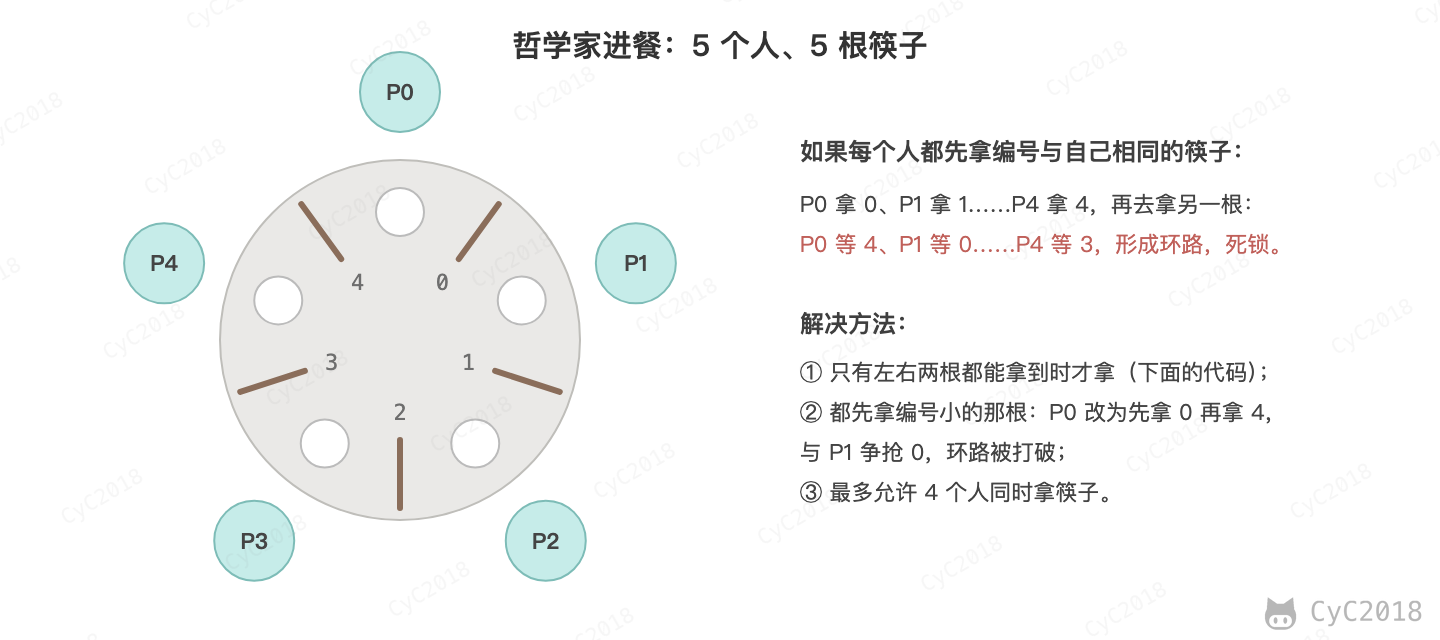
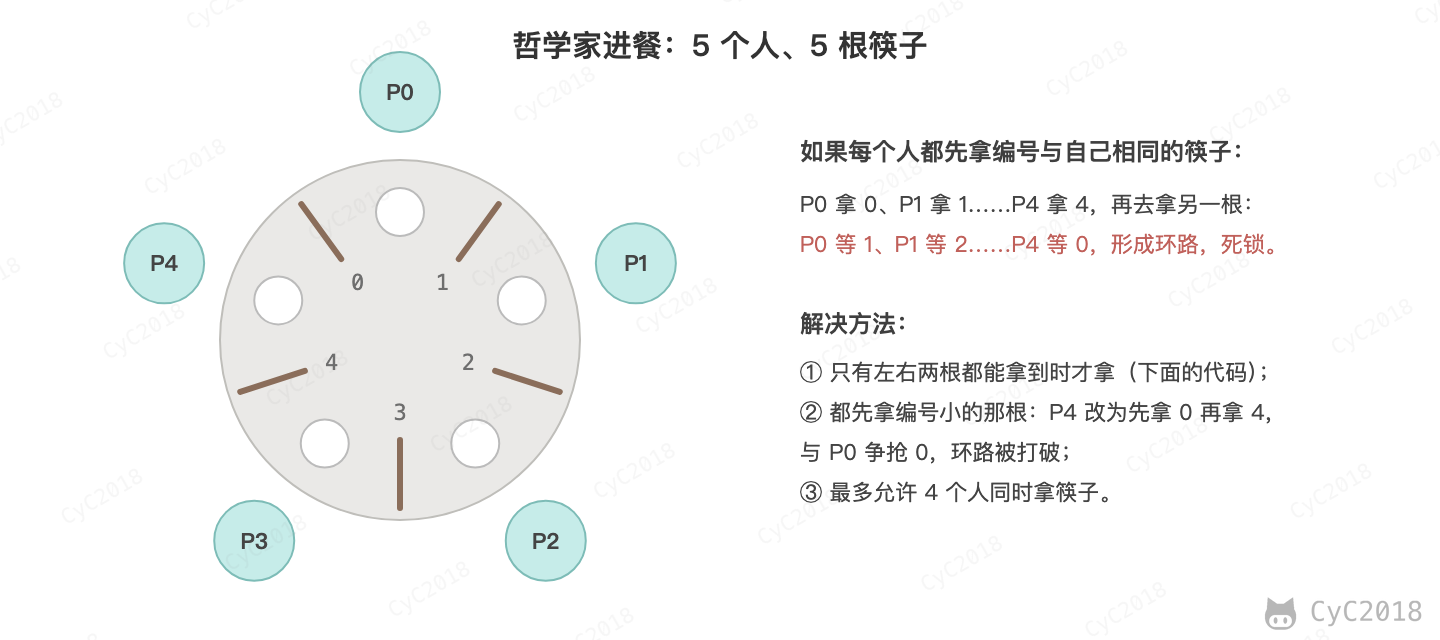
Update 计算机操作系统 - 进程管理.md
重新绘制哲学家就餐问题的配图，调整调度算法的标题层级，更新 CFS 和 EEVDF 的描述，增加上下文切换的实测附录。

Changed region(s): [[0.5938, 0.3438, 0.9062, 0.4062], [0.5625, 0.6875, 0.75, 0.7188], [0.7188, 0.625, 0.75, 0.6562]]

diff --git a/notes/计算机操作系统 - 进程管理.md b/notes/计算机操作系统 - 进程管理.md
@@ -27,6 +27,7 @@
         * [4. 信号量](#4-信号量)
         * [5. 共享存储](#5-共享存储)
         * [6. 套接字](#6-套接字)
+    * [附录：实测](#附录实测)
     * [参考资料](#参考资料)
 <!-- GFM-TOC -->
 
@@ -37,7 +38,7 @@
 
 进程是资源分配的基本单位。
 
-进程控制块 (Process Control Block, PCB) 描述进程的基本信息和运行状态，所谓的创建进程和撤销进程，都是指对 PCB 的操作。
+进程控制块（Process Control Block, PCB）描述进程的基本信息和运行状态，所谓的创建进程和撤销进程，都是指对 PCB 的操作。
 
 下图显示了 4 个进程在一个 CPU 上并发地执行。
 
@@ -55,21 +56,10 @@ QQ 和浏览器是两个进程，浏览器进程里面有很多线程，例如 H
 
 ### 3. 区别
 
-Ⅰ 拥有资源
-
-进程是资源分配的基本单位，但是线程不拥有资源，线程可以访问隶属进程的资源。
-
-Ⅱ 调度
-
-线程是独立调度的基本单位，在同一进程中，线程的切换不会引起进程切换，从一个进程中的线程切换到另一个进程中的线程时，会引起进程切换。
-
-Ⅲ 系统开销
-
-由于创建或撤销进程时，系统都要为之分配或回收资源，如内存空间、I/O 设备等，所付出的开销远大于创建或撤销线程时的开销。类似地，在进行进程切换时，涉及当前执行进程 CPU 环境的保存及新调度进程 CPU 环境的设置，而线程切换时只需保存和设置少量寄存器内容，开销很小。
-
-Ⅳ 通信方面
-
-线程间可以通过直接读写同一进程中的数据进行通信，但是进程通信需要借助 IPC。
+- 拥有资源：进程是资源分配的基本单位，但是线程不拥有资源，线程可以访问隶属进程的资源；
+- 调度：线程是独立调度的基本单位，在同一进程中，线程的切换不会引起进程切换，从一个进程中的线程切换到另一个进程中的线程时，会引起进程切换；
+- 系统开销：由于创建或撤销进程时，系统都要为之分配或回收资源，如内存空间、I/O 设备等，所付出的开销远大于创建或撤销线程时的开销。类似地，在进行进程切换时，涉及当前执行进程 CPU 环境的保存及新调度进程 CPU 环境的设置，而线程切换时只需保存和设置少量寄存器内容，开销很小；
+- 通信方面：线程间可以通过直接读写同一进程中的数据进行通信，但是进程通信需要借助 IPC。
 
 ### 4. 协程
 
@@ -78,7 +68,7 @@ QQ 和浏览器是两个进程，浏览器进程里面有很多线程，例如 H
 与线程相比：
 
 - 切换在用户态完成，只需要保存少量寄存器，不需要陷入内核，开销小；
-- 占用的内存少，可以同时存在大量协程，而每个线程都要预留独立的栈，例如 64 位 Linux 上 Java 线程的栈默认为 1 MB，线程数量有限；
+- 占用的内存少，可以同时存在大量协程，而每个线程都要预留独立的栈，例如 Linux x64 上 Java 线程的栈默认为 1 MB（ARM64 的 Linux 和 macOS 上为 2 MB），线程数量有限；
 - 同一个线程上的协程不能并行执行，要利用多核仍然需要多个线程；协程中如果执行了阻塞的系统调用，所在的线程会被阻塞，所以协程的运行时通常把 I/O 改为非阻塞的方式。
 
 Java 21 正式引入的虚拟线程（[JEP 444](https://openjdk.org/jeps/444)）就是 JVM 实现的协程：虚拟线程由 JVM 调度到少量的平台线程上运行，执行阻塞 I/O 时从平台线程上卸载，让平台线程去执行其它虚拟线程。虚拟线程的创建成本很低，不需要用线程池复用，需要限制并发数时使用信号量。在 JDK 21 中，虚拟线程在 synchronized 块内阻塞时无法卸载，JDK 24 起（[JEP 491](https://openjdk.org/jeps/491)）基本消除了这个限制。
@@ -95,19 +85,19 @@ Java 21 正式引入的虚拟线程（[JEP 444](https://openjdk.org/jeps/444)）
 
 同一进程中的线程切换不需要换地址空间；切换到另一个进程时还要切换页表，TLB 和 CPU 缓存中原来的地址映射和数据对新进程没有用，要重新加载，这部分间接开销通常比保存寄存器更大。
 
-在 Linux 容器中用 taskset 把两个执行流固定在同一个 CPU 上，通过两根管道来回传 1 个字节，让它们交替运行：两个线程之间、两个进程之间每次切换都约 1.1 微秒（包含一次 read 或 write 系统调用）。数据量很小时两者几乎没有差别，进程切换的额外开销主要在工作集较大时体现出来。线程过多、频繁阻塞时，CPU 会把相当一部分时间花在切换上，可以用 vmstat 的 cs 列或 pidstat -w 观察每秒的切换次数。
+例如把两个执行流固定在同一个 CPU 上，通过两根管道来回传 1 个字节，让它们交替运行，两个线程之间、两个进程之间每次切换都约 1.1 微秒，包含一次 read 或 write 系统调用（Linux 实测，见[附录：实测](#附录实测)）。数据量很小时两者几乎没有差别，进程切换的额外开销主要在工作集较大时体现出来。线程过多、频繁阻塞时，CPU 会把相当一部分时间花在切换上，可以用 vmstat 的 cs 列或 pidstat -w 观察每秒的切换次数。
 
 ## 进程状态的切换
 
 <div align="center"> <img src="pics/process-states.png" width="720px"/> </div><br>
 
-- 就绪状态（ready）：等待被调度
-- 运行状态（running）
-- 阻塞状态（waiting）：等待资源
+- 就绪状态（ready）：等待被调度；
+- 运行状态（running）：正在 CPU 上执行；
+- 阻塞状态（waiting）：等待资源。
 
 应该注意以下内容：
 
-- 只有就绪态和运行态可以相互转换，其它的都是单向转换。就绪状态的进程通过调度算法从而获得 CPU 时间，转为运行状态；而运行状态的进程，在分配给它的 CPU 时间片用完之后就会转为就绪状态，等待下一次调度。
+- 只有就绪态和运行态可以相互转换，其它的都是单向转换。就绪状态的进程通过调度算法从而获得 CPU 时间，转为运行状态；而运行状态的进程，在分配给它的 CPU 时间片用完之后就会转为就绪状态，等待下一次调度；
 - 阻塞状态是缺少需要的资源从而由运行状态转换而来，但是该资源不包括 CPU 时间，缺少 CPU 时间会从运行态转换为就绪态。
 
 ## 进程调度算法
@@ -118,48 +108,48 @@ Java 21 正式引入的虚拟线程（[JEP 444](https://openjdk.org/jeps/444)）
 
 批处理系统没有太多的用户操作，在该系统中，调度算法目标是保证吞吐量和周转时间（从提交到终止的时间）。
 
-**1.1 先来先服务 first-come first-served（FCFS）**  
+##### 1.1 先来先服务（First-Come First-Served, FCFS）
 
 非抢占式的调度算法，按照请求的顺序进行调度。
 
 有利于长作业，但不利于短作业，因为短作业必须一直等待前面的长作业执行完毕才能执行，而长作业又需要执行很长时间，造成了短作业等待时间过长。
 
-**1.2 短作业优先 shortest job first（SJF）**  
+##### 1.2 短作业优先（Shortest Job First, SJF）
 
 非抢占式的调度算法，按估计运行时间最短的顺序进行调度。
 
 长作业有可能会饿死，处于一直等待短作业执行完毕的状态。因为如果一直有短作业到来，那么长作业永远得不到调度。
 
-**1.3 最短剩余时间优先 shortest remaining time next（SRTN）**  
+##### 1.3 最短剩余时间优先（Shortest Remaining Time Next, SRTN）
 
-最短作业优先的抢占式版本，按剩余运行时间的顺序进行调度。 当一个新的作业到达时，其整个运行时间与当前进程的剩余时间作比较。如果新的进程需要的时间更少，则挂起当前进程，运行新的进程。否则新的进程等待。
+最短作业优先的抢占式版本，按剩余运行时间的顺序进行调度。当一个新的作业到达时，其整个运行时间与当前进程的剩余时间作比较。如果新的进程需要的时间更少，则挂起当前进程，运行新的进程。否则新的进程等待。
 
 ### 2. 交互式系统
 
 交互式系统有大量的用户交互操作，在该系统中调度算法的目标是快速地进行响应。
 
-**2.1 时间片轮转**  
+##### 2.1 时间片轮转
 
 将所有就绪进程按 FCFS 的原则排成一个队列，每次调度时，把 CPU 时间分配给队首进程，该进程可以执行一个时间片。当时间片用完时，由计时器发出时钟中断，调度程序便停止该进程的执行，并将它送往就绪队列的末尾，同时继续把 CPU 时间分配给队首的进程。
 
 时间片轮转算法的效率和时间片的大小有很大关系：
 
-- 因为进程切换都要保存进程的信息并且载入新进程的信息，如果时间片太小，会导致进程切换得太频繁，在进程切换上就会花过多时间。
+- 因为进程切换都要保存进程的信息并且载入新进程的信息，如果时间片太小，会导致进程切换得太频繁，在进程切换上就会花过多时间；
 - 而如果时间片过长，那么实时性就不能得到保证。
 
 <div align="center"> <img src="pics/process-rr.png" width="740px"/> </div><br>
 
-**2.2 优先级调度**  
+##### 2.2 优先级调度
 
 为每个进程分配一个优先级，按优先级进行调度。
 
 为了防止低优先级的进程永远等不到调度，可以随着时间的推移增加等待进程的优先级。
 
-**2.3 多级反馈队列**  
+##### 2.3 多级反馈队列
 
 一个进程需要执行 100 个时间片，如果采用时间片轮转调度算法，那么需要交换 100 次。
 
-多级队列是为这种需要连续执行多个时间片的进程考虑，它设置了多个队列，每个队列时间片大小都不同，例如 1,2,4,8,..。进程在第一个队列没执行完，就会被移到下一个队列。这种方式下，之前的进程只需要交换 7 次。
+多级队列是为这种需要连续执行多个时间片的进程考虑，它设置了多个队列，每个队列时间片大小都不同，例如 1、2、4、8……进程在第一个队列没执行完，就会被移到下一个队列。这种方式下，之前的进程只需要交换 7 次（1 + 2 + … + 64 = 127 ≥ 100）。
 
 每个队列优先权也不同，最上面的优先权最高。因此只有上一个队列没有进程在排队，才能调度当前队列上的进程。
 
@@ -173,6 +163,8 @@ Java 21 正式引入的虚拟线程（[JEP 444](https://openjdk.org/jeps/444)）
 
 分为硬实时和软实时，前者必须满足绝对的截止时间，后者可以容忍一定的超时。
 
+实际的操作系统会组合使用这些思想。例如 Linux 2.6.23 起的完全公平调度器（CFS）给每个进程记录按优先级加权后的虚拟运行时间，总是选择虚拟运行时间最小的进程运行，让各进程按权重分享 CPU；Linux 6.6 起开始改用 EEVDF 调度器，在公平分享的基础上考虑每个进程的截止时间，让对延迟敏感的进程更快得到运行。实时进程使用单独的 SCHED_FIFO、SCHED_RR 策略，优先于普通进程。
+
 ## 进程同步
 
 ### 1. 临界区
@@ -181,7 +173,7 @@ Java 21 正式引入的虚拟线程（[JEP 444](https://openjdk.org/jeps/444)）
 
 为了互斥访问临界资源，每个进程在进入临界区之前，需要先进行检查。
 
-```html
+```c
 // entry section
 // critical section;
 // exit section
@@ -189,19 +181,19 @@ Java 21 正式引入的虚拟线程（[JEP 444](https://openjdk.org/jeps/444)）
 
 ### 2. 同步与互斥
 
-- 同步：多个进程因为合作产生的直接制约关系，使得进程有一定的先后执行关系。
+- 同步：多个进程因为合作产生的直接制约关系，使得进程有一定的先后执行关系；
 - 互斥：多个进程在同一时刻只有一个进程能进入临界区。
 
 ### 3. 信号量
 
 信号量（Semaphore）是一个整型变量，可以对其执行 down 和 up 操作，也就是常见的 P 和 V 操作。
 
--   **down**   : 如果信号量大于 0 ，执行 -1 操作；如果信号量等于 0，进程睡眠，等待信号量大于 0；
--   **up**  ：对信号量执行 +1 操作，唤醒睡眠的进程让其完成 down 操作。
+- down：如果信号量大于 0，执行 -1 操作；如果信号量等于 0，进程睡眠，等待信号量大于 0；
+- up：对信号量执行 +1 操作，唤醒睡眠的进程让其完成 down 操作。
 
 down 和 up 操作需要被设计成原语，不可分割，通常的做法是在执行这些操作的时候屏蔽中断。
 
-如果信号量的取值只能为 0 或者 1，那么就成为了   **互斥量（Mutex）**  ，0 表示临界区已经加锁，1 表示临界区解锁。
+如果信号量的取值只能为 0 或者 1，那么就成为了互斥量（Mutex），0 表示临界区已经加锁，1 表示临界区解锁。
 
 ```c
 typedef int semaphore;
@@ -219,7 +211,7 @@ void P2() {
 }
 ```
 
-\<font size=3\>   **使用信号量实现生产者-消费者问题**   \</font\> \</br\>
+使用信号量实现生产者-消费者问题：
 
 问题描述：使用一个缓冲区来保存物品，只有缓冲区没有满，生产者才可以放入物品；只有缓冲区不为空，消费者才可以拿走物品。
 
@@ -263,7 +255,7 @@ void consumer() {
 
 使用信号量机制实现的生产者消费者问题需要客户端代码做很多控制，而管程把控制的代码独立出来，不仅不容易出错，也使得客户端代码调用更容易。
 
-c 语言不支持管程，下面的示例代码使用了类 Pascal 语言来描述管程。示例代码的管程提供了 insert() 和 remove() 方法，客户端代码通过调用这两个方法来解决生产者-消费者问题。
+C 语言不支持管程，下面的示例代码使用了类 Pascal 语言来描述管程。示例代码的管程提供了 insert() 和 remove() 方法，客户端代码通过调用这两个方法来解决生产者-消费者问题。
 
 ```pascal
 monitor ProducerConsumer
@@ -284,9 +276,9 @@ end monitor;
 
 管程有一个重要特性：在一个时刻只能有一个进程使用管程。进程在无法继续执行的时候不能一直占用管程，否则其它进程永远不能使用管程。
 
-管程引入了   **条件变量**   以及相关的操作：**wait()** 和 **signal()** 来实现同步操作。对条件变量执行 wait() 操作会导致调用进程阻塞，把管程让出来给另一个进程持有。signal() 操作用于唤醒被阻塞的进程。
+管程引入了条件变量以及相关的操作 wait() 和 signal() 来实现同步操作。对条件变量执行 wait() 操作会导致调用进程阻塞，把管程让出来给另一个进程持有。signal() 操作用于唤醒被阻塞的进程。
 
-<font size=3>  **使用管程实现生产者-消费者问题**  </font><br>
+使用管程实现生产者-消费者问题：
 
 ```pascal
 // 管程
@@ -519,7 +511,7 @@ Semaphore serviceQueue;         // FAIRNESS: preserves ordering of requests (sig
 
 void writer()
 { 
-    down(&serviceQueue);           // wait in line to be servicexs
+    down(&serviceQueue);           // wait in line to be serviced
     // <ENTER>
     down(&resourceAccess);         // request exclusive access to resource
     // </ENTER>
@@ -624,7 +616,37 @@ FIFO 常用于客户-服务器应用程序中，FIFO 用作汇聚点，在客户
 
 与其它通信机制不同的是，它可用于不同机器间的进程通信。
 
+## 附录：实测
+
+上下文切换：Docker Desktop 中的 Linux 容器（Apple M1 Pro），gcc -O2 编译。两个执行流通过两根管道互相传 1 个字节，每个来回包含 2 次切换，各执行 20 万个来回：
+
+```c
+static void *peer(void *arg) {
+    char c;
+    for (long i = 0; i < n; i++) { read(a[0], &c, 1); write(b[1], &c, 1); }
+    return NULL;
+}
+// main 中：thread 模式用 pthread_create 运行 peer，process 模式用 fork
+for (long i = 0; i < n; i++) { write(a[1], &c, 1); read(b[0], &c, 1); }
+printf("%-7s 每次切换（含一次 read 或 write）约 %.2f us\n", argv[1], ns / n / 2 / 1000);
+```
+
+```text
+$ for m in thread process thread process; do taskset -c 0 ./pp $m 200000; done
+thread  每次切换（含一次 read 或 write）约 1.10 us
+process 每次切换（含一次 read 或 write）约 1.12 us
+thread  每次切换（含一次 read 或 write）约 1.08 us
+process 每次切换（含一次 read 或 write）约 1.12 us
+$ for m in thread process; do ./pp $m 200000; done      # 不限制 CPU
+thread  每次切换（含一次 read 或 write）约 16.55 us
+process 每次切换（含一次 read 或 write）约 15.49 us
+```
+
+不限制 CPU 时两个执行流在不同的 CPU 上，每次都要跨核唤醒对方，反而慢得多。
+
 ## 参考资料
 
 - Tanenbaum A S, Bos H. Modern Operating Systems [M]. Pearson, 2014.
 - [pipe(7) — Linux manual page](https://man7.org/linux/man-pages/man7/pipe.7.html)
+- [CFS Scheduler — The Linux Kernel documentation](https://docs.kernel.org/scheduler/sched-design-CFS.html)
+- [EEVDF Scheduler — The Linux Kernel documentation](https://docs.kernel.org/scheduler/sched-eevdf.html)
